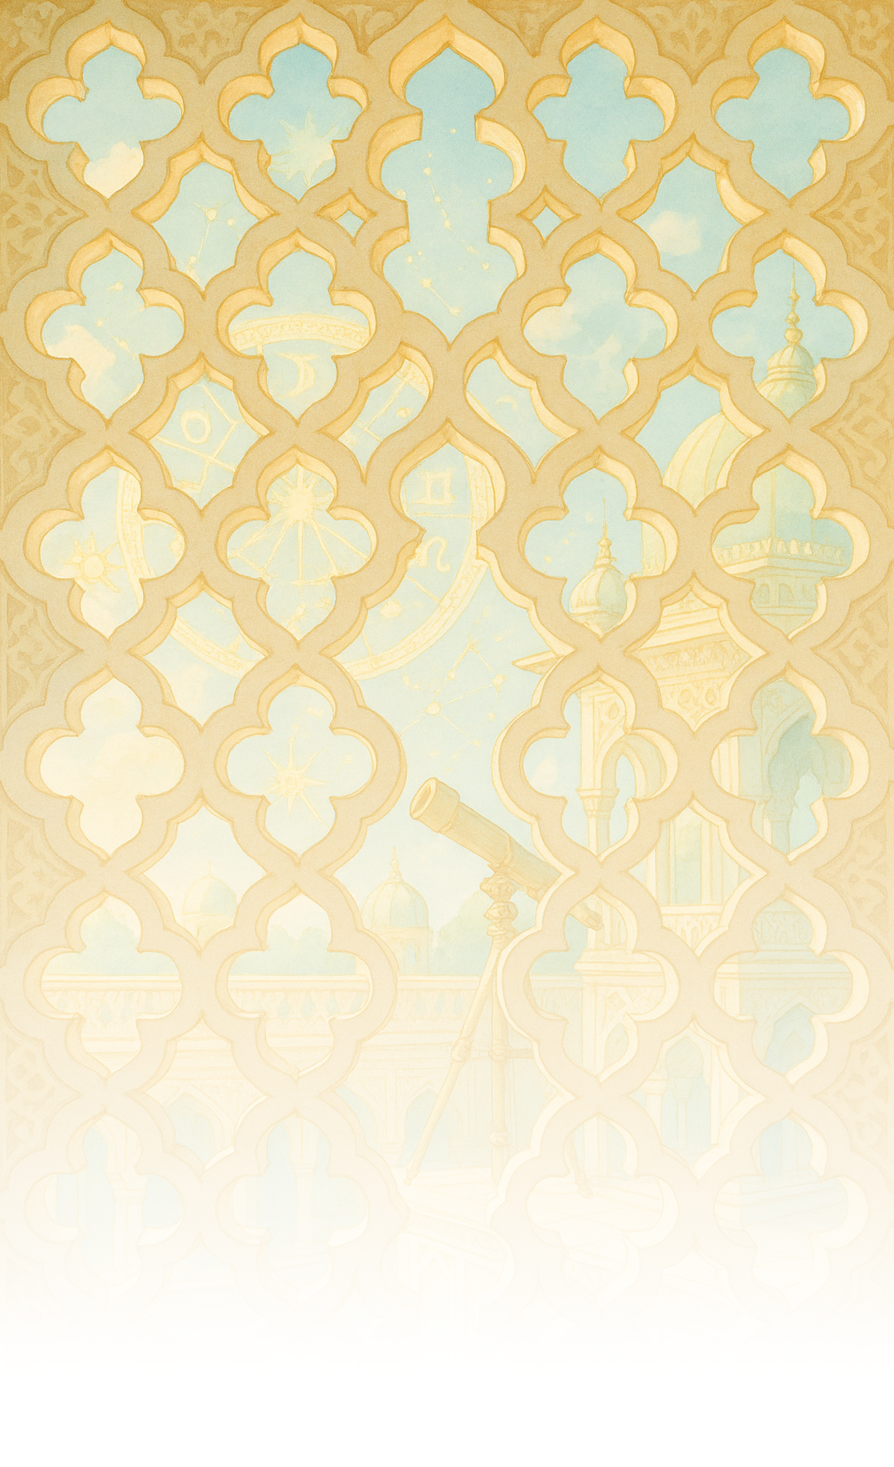
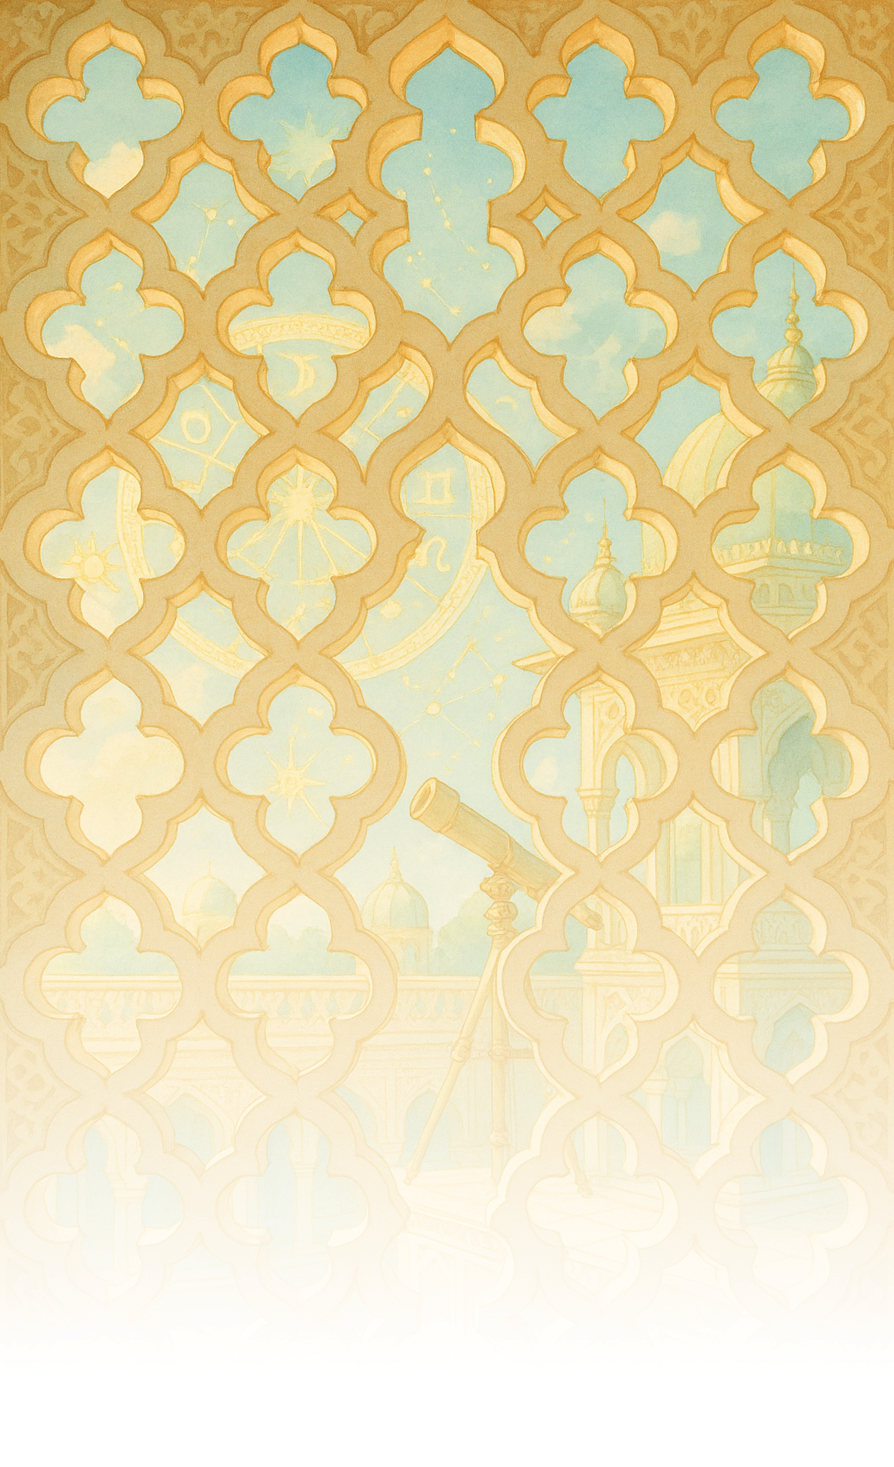
design update last two cards

diff --git a/src/styles/App.css b/src/styles/App.css
@@ -281,15 +281,15 @@ tfoot td:last-child {
   right: 0;
   width: 100%;
   height: 100%;
-  background-image: url("/backgrounds/fastingcard3.png");
-  background-position: bottom left;
+  background-image: url("/backgrounds/fastingcard7.png");
+  background-position: center left;
   background-repeat: no-repeat;
-  background-size: auto;
+  background-size: 100%;
   border-radius: 8px;
-  opacity: 1;
+  opacity: 0.5;
   pointer-events: none;
   z-index: -1;
-  mask-image: linear-gradient(90deg, rgba(0, 0, 0, 0.1) 0%, rgba(0, 0, 0, 0.5) 80%, rgba(0, 0, 0, 0.8) 100%);
+  mask-image: linear-gradient(135deg, rgba(0, 0, 0, 0.1) 10%, rgba(0, 0, 0, 1) 50%, rgba(0, 0, 0, 1) 100%);
 }
 
 .card.festivalCard::before {
@@ -305,10 +305,10 @@ tfoot td:last-child {
   background-repeat: no-repeat;
   background-size: 100%;
   border-radius: 8px;
-  opacity: 1;
+  opacity: 0.8;
   pointer-events: none;
   z-index: -1;
-  mask-image: linear-gradient(90deg, rgba(0, 0, 0, 0.1) 0%, rgba(0, 0, 0, 0.5) 80%, rgba(0, 0, 0, 0.8) 100%);
+  mask-image: linear-gradient(90deg, rgba(0, 0, 0, 0.1) 0%, rgba(0, 0, 0, 0.5) 50%, rgba(0, 0, 0, 1) 100%);
 }
 
 .card.choghadiyaCard::before {
@@ -342,6 +342,19 @@ tfoot td:last-child {
 }
 
 .aktivniInfo {
+  position: absolute;
+  top: 42px;
+  right: 15px;
+  width: auto;
+  padding: 1px 8px;
+  text-align: center;
+  vertical-align: middle;
+  background-color: var(--color-white);
+  border: 1px solid var(--color-white);
+  border-radius: 10px;
+}
+
+.dayFast {
   position: absolute;
   top: 42px;
   right: 15px;

diff --git a/src/components/displayCards/fastingCard.jsx b/src/components/displayCards/fastingCard.jsx
@@ -130,7 +130,7 @@ export default function FastingCard({ sunrise }) {
         <div className='topBar' style={{ position: "relative" }}>
           <h3>Fasting days</h3>
           <small>VRAT & UPVAS</small>
-          <small className='aktivniInfo'>
+          <small className='dayFast'>
             {daysOfWeek.map((day, index) => (
               <span
                 key={day}
